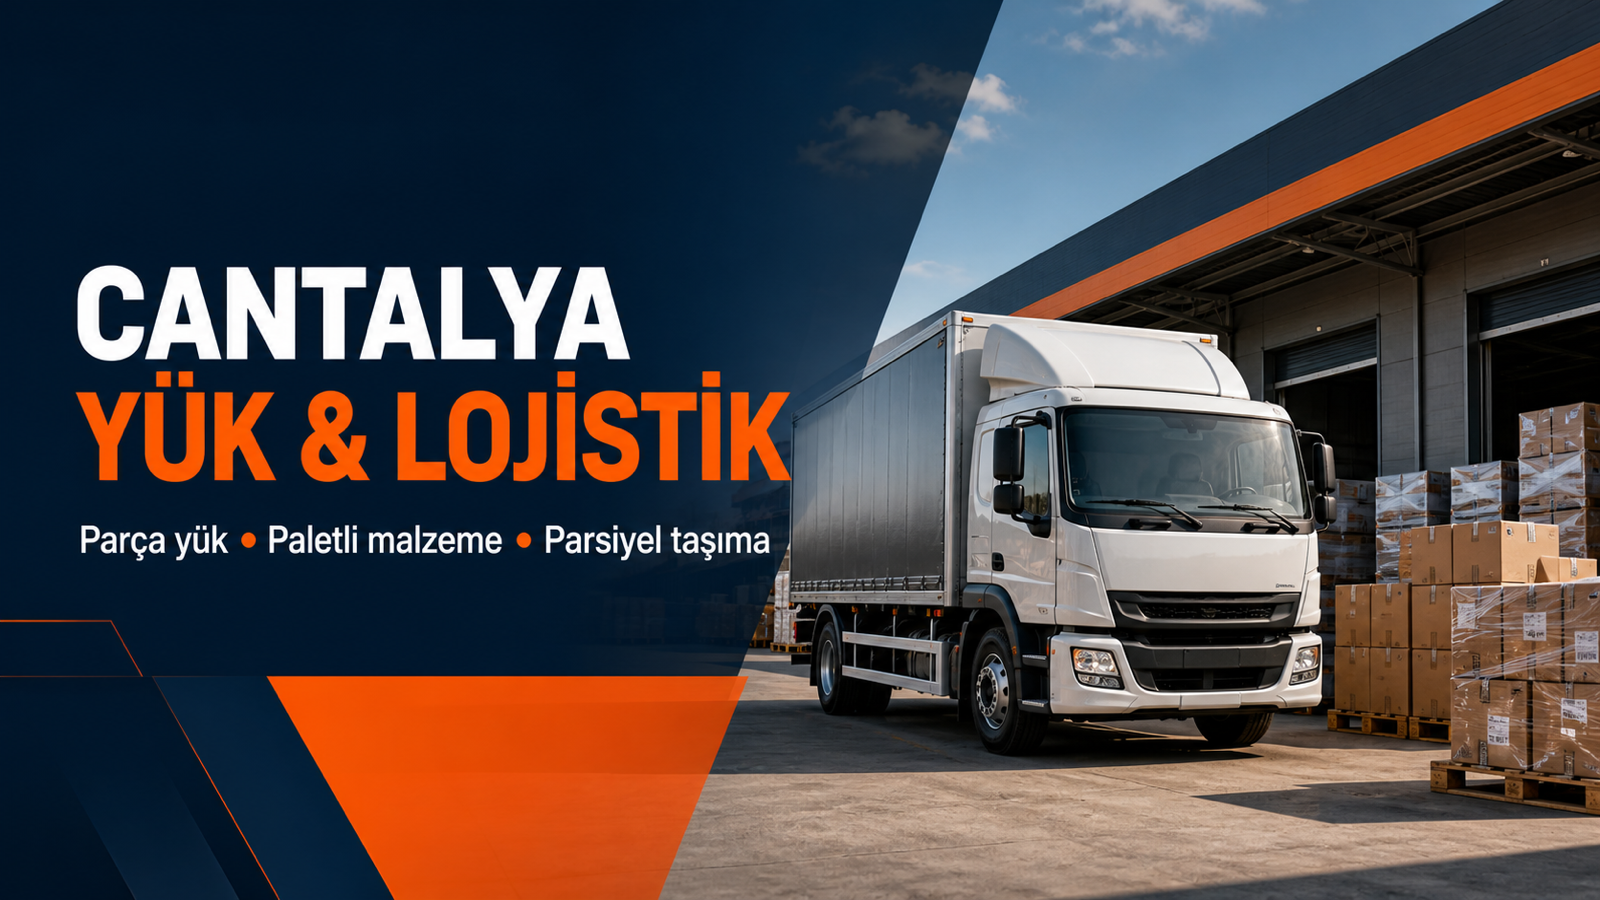
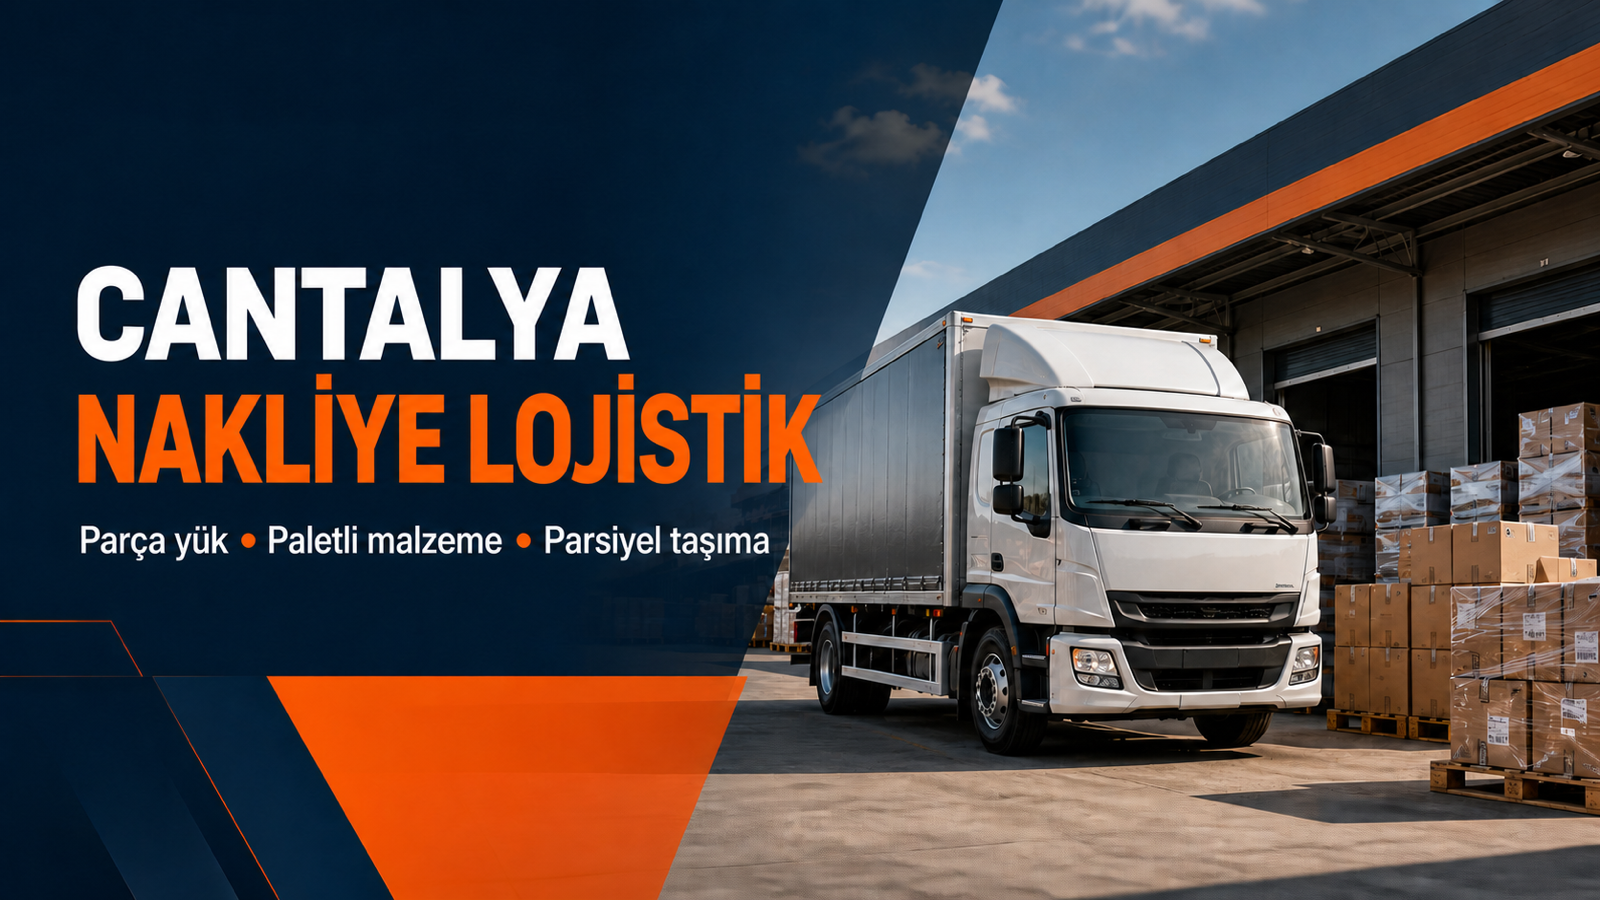
Markayi ve koli tasima mesajini guncelle

diff --git a/components/home-page.tsx b/components/home-page.tsx
@@ -345,7 +345,7 @@ export default function Home() {
           <figure className="overflow-hidden rounded-[1.75rem] border border-slate-200 bg-[#071826] shadow-[0_24px_70px_rgb(15_23_42/12%)]">
             <img
               src={withBasePath('/og.png')}
-              alt="Cantalya Yük ve Lojistik için paletli yüklerin yanında bekleyen ticari taşıma kamyonu"
+              alt="Cantalya Nakliye Lojistik için paletli yüklerin yanında bekleyen ticari taşıma kamyonu"
               className="aspect-video w-full object-cover"
             />
           </figure>
@@ -356,7 +356,7 @@ export default function Home() {
         <div className="site-shell">
           <div className="max-w-3xl">
             <p className="eyebrow">Ne taşıyoruz?</p>
-            <h2 className="section-title">Bir kamyon dolusu olmasa da yükünüz yola çıkar.</h2>
+            <h2 className="section-title">Bir tek koliniz bile olsa yükünüz yola çıkar.</h2>
             <p className="section-copy">
               Ev eşyasından paletli malzemeye; bireysel ve ticari yükleri Türkiye genelinde şehir
               içi veya şehirler arası profesyonelce planlıyor, ihtiyacınıza uygun fiyat seçeneği

diff --git a/app/layout.tsx b/app/layout.tsx
@@ -53,7 +53,7 @@ export const metadata: Metadata = {
         url: `${siteUrl}/og.png`,
         width: 1600,
         height: 900,
-        alt: 'Cantalya Yük & Lojistik — parça yük, paletli malzeme ve parsiyel taşıma',
+        alt: 'Cantalya Nakliye Lojistik — parça yük, paletli malzeme ve parsiyel taşıma',
       },
     ],
   },
